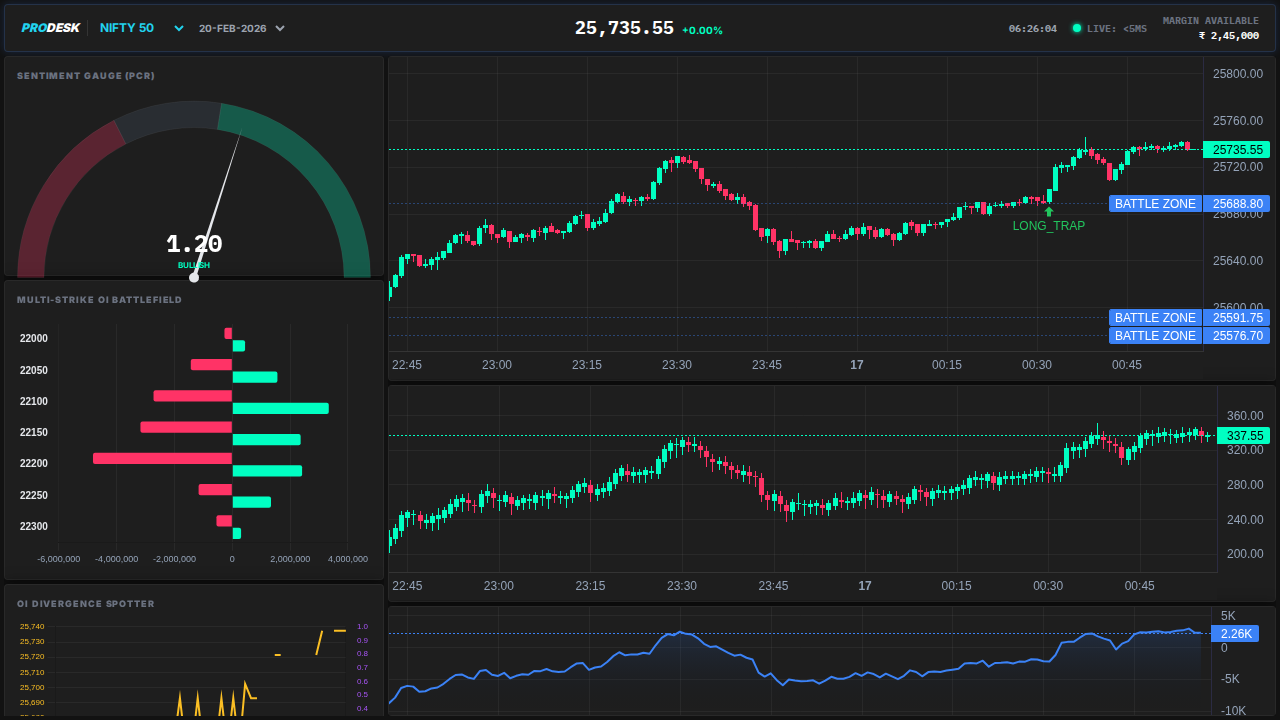
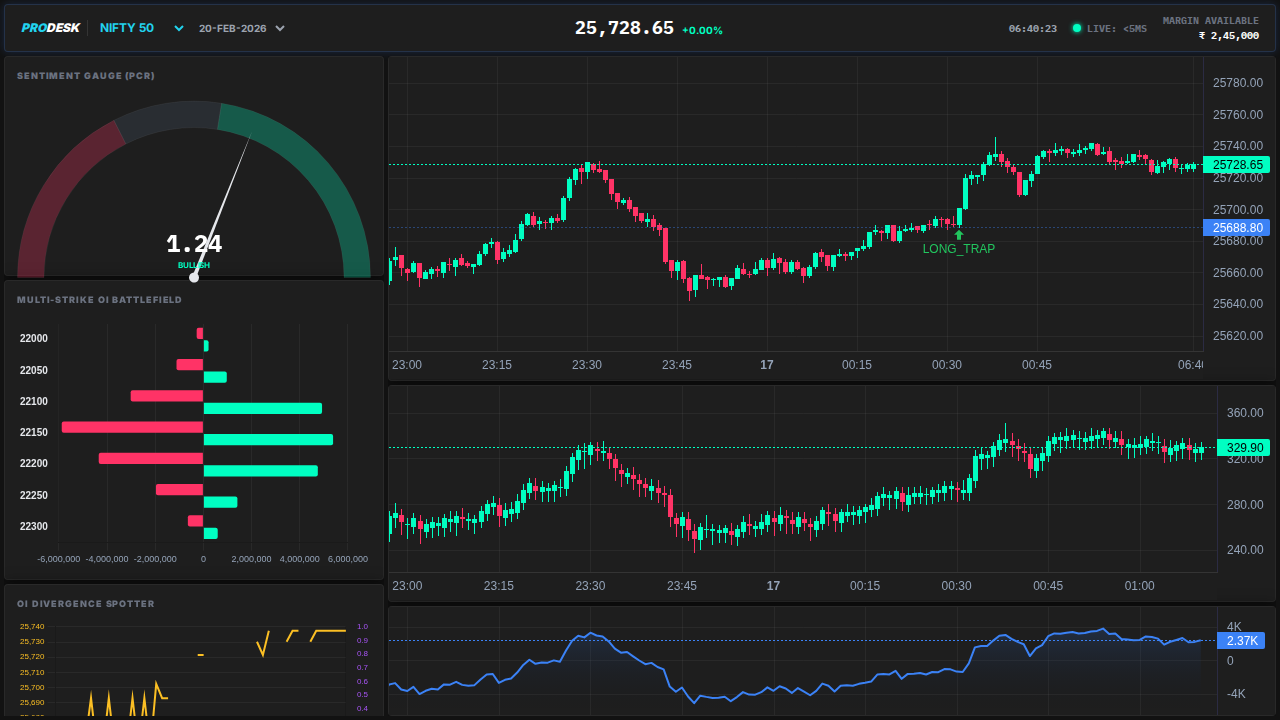
Final Modern UI Revamp: Streamlined layout, optimized performance, and label cleanup.
- Removed "BATTLE ZONE" labels from charts per user request.
- Fixed FINNIFTY symbol mismatch between frontend and backend.
- Restored vectorized Max Pain calculation for high-frequency performance.
- Cleaned up broken imports and experimental modules.
- Implemented consolidated data fetching for the tactical dashboard.
- Verified dashboard stability with Playwright.

diff --git a/backend/templates/modern_dashboard.html b/backend/templates/modern_dashboard.html
@@ -70,7 +70,7 @@
                 <select id="assetSelector" class="bg-transparent text-xs font-bold outline-none cursor-pointer text-cyan-400">
                     <option value="NSE:NIFTY">NIFTY 50</option>
                     <option value="NSE:BANKNIFTY">BANKNIFTY</option>
-                    <option value="NSE:CNXFINANCE">FINNIFTY</option>
+                    <option value="NSE:FINNIFTY">FINNIFTY</option>
                 </select>
                 <select id="expirySelector" class="bg-transparent text-[10px] font-bold outline-none cursor-pointer text-gray-400">
                     <!-- Dynamic -->

diff --git a/backend/api_server.py b/backend/api_server.py
@@ -295,12 +295,12 @@ async def get_intraday(instrument_key: str, interval: str = '1'):
                     valid_indicators.append({
                         "id": f"battle_zone_{i}",
                         "type": "price_line",
-                        "title": "BATTLE ZONE",
+                        "title": "",
                         "data": {
                             "price": zone['price'],
                             "color": "rgba(59, 130, 246, 0.4)",
                             "lineStyle": 2,
-                            "title": "BATTLE ZONE"
+                            "title": ""
                         }
                     })
                 

diff --git a/backend/external/tv_live_wss.py b/backend/external/tv_live_wss.py
@@ -278,12 +278,12 @@ class TradingViewWSS:
                     indicators.append({
                         "id": f"battle_zone_{i}",
                         "type": "price_line",
-                        "title": "BATTLE ZONE",
+                        "title": "",
                         "data": {
                             "price": zone['price'],
                             "color": "rgba(59, 130, 246, 0.4)",
                             "lineStyle": 2,
-                            "title": "BATTLE ZONE"
+                            "title": ""
                         }
                     })
 
